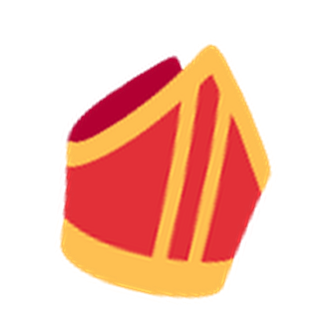
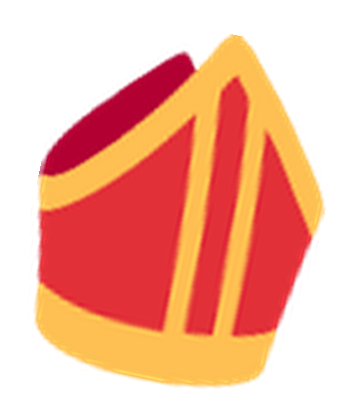
Seat hats on the head using each hat's opaque bounds
Claude-Session: https://claude.ai/code/session_01RvUTQRLFqTPWzf27vUXUyM

diff --git a/projects/pogo-planet-hats-reel/compositions/index.html b/projects/pogo-planet-hats-reel/compositions/index.html
@@ -54,7 +54,7 @@
             <svg class="hills" viewBox="0 0 1080 900" preserveAspectRatio="none"><polygon fill="#58735e" points="0,900 0,560 140,380 260,560 400,300 560,560 700,420 860,560 980,340 1080,480 1080,900" /><polygon fill="#2f6b4a" points="0,900 0,700 90,560 180,700 330,520 470,720 640,600 780,720 900,560 1080,740 1080,900" /></svg>
             <svg class="rays" id="ray1" viewBox="-1000 -1000 2000 2000"><polygon points="0,0 1398,-73 1398,73" /><polygon points="0,0 1339,409 1289,547" /><polygon points="0,0 1118,843 1024,955" /><polygon points="0,0 762,1174 636,1247" /><polygon points="0,0 315,1364 171,1390" /><polygon points="0,0 -171,1390 -315,1364" /><polygon points="0,0 -636,1247 -762,1174" /><polygon points="0,0 -1024,955 -1118,843" /><polygon points="0,0 -1289,547 -1339,409" /><polygon points="0,0 -1398,73 -1398,-73" /><polygon points="0,0 -1339,-409 -1289,-547" /><polygon points="0,0 -1118,-843 -1024,-955" /><polygon points="0,0 -762,-1174 -636,-1247" /><polygon points="0,0 -315,-1364 -171,-1390" /><polygon points="0,0 171,-1390 315,-1364" /><polygon points="0,0 636,-1247 762,-1174" /><polygon points="0,0 1024,-955 1118,-843" /><polygon points="0,0 1289,-547 1339,-409" /></svg>
             <div class="ground"></div>
-            <div class="char" id="c1" style="left:160px;top:640px;transform:scale(2.2)"><div class="bob" id="c1b"><img class="stick" src="img/stick.png" /><img class="body" src="img/body.png" /><img class="hat" id="c1h0" src="img/hatfit/h00.png" style="left:163.0px;top:-26.0px;width:112.0px;height:112.0px" /><img class="hat" id="c1h1" src="img/hatfit/h01.png" style="left:163.0px;top:-26.0px;width:112.0px;height:112.0px" /><img class="hat" id="c1h2" src="img/hatfit/h02.png" style="left:163.0px;top:-26.0px;width:112.0px;height:112.0px" /><img class="hat" id="c1h3" src="img/hatfit/h03.png" style="left:163.0px;top:-26.0px;width:112.0px;height:112.0px" /><img class="hat" id="c1h4" src="img/hatfit/h04.png" style="left:163.0px;top:-26.0px;width:112.0px;height:112.0px" /><img class="hat" id="c1h5" src="img/hatfit/h05.png" style="left:163.0px;top:-26.0px;width:112.0px;height:112.0px" /><img class="hat" id="c1h6" src="img/hatfit/h06.png" style="left:163.0px;top:-26.0px;width:112.0px;height:112.0px" /><img class="hat" id="c1h7" src="img/hatfit/h08.png" style="left:163.0px;top:-26.0px;width:112.0px;height:112.0px" /><img class="hat" id="c1h8" src="img/hatfit/h09.png" style="left:160.0px;top:-9.0px;width:118.0px;height:127.0px" /><img class="hat" id="c1h9" src="img/hatfit/h10.png" style="left:161.0px;top:2.0px;width:116.0px;height:116.0px" /><img class="hat" id="c1h10" src="img/hatfit/h11.png" style="left:161.0px;top:4.7px;width:116.0px;height:113.3px" /><img class="hat" id="c1h11" src="img/hatfit/h12.png" style="left:163.0px;top:-26.0px;width:112.0px;height:112.0px" /><img class="hat" id="c1h12" src="img/hatfit/h13.png" style="left:163.0px;top:-26.0px;width:112.0px;height:112.0px" /><img class="hat" id="c1h13" src="img/hatfit/h14.png" style="left:163.0px;top:-26.0px;width:112.0px;height:112.0px" /><img class="hat" id="c1h14" src="img/hatfit/h15.png" style="left:163.0px;top:-26.0px;width:112.0px;height:112.0px" /><img class="hat" id="c1h15" src="img/hatfit/h16.png" style="left:161.0px;top:2.0px;width:116.0px;height:116.0px" /><img class="hat" id="c1h16" src="img/hatfit/h17.png" style="left:161.0px;top:2.0px;width:116.0px;height:116.0px" /><img class="hat" id="c1h17" src="img/hatfit/h18.png" style="left:161.0px;top:2.0px;width:116.0px;height:116.0px" /><img class="hat" id="c1h18" src="img/hatfit/h19.png" style="left:161.0px;top:2.0px;width:116.0px;height:116.0px" /><img class="hat" id="c1h19" src="img/hatfit/h20.png" style="left:161.0px;top:2.0px;width:116.0px;height:116.0px" /><img class="hat" id="c1h20" src="img/hatfit/h21.png" style="left:161.0px;top:2.0px;width:116.0px;height:116.0px" /><img class="hat" id="c1h21" src="img/hatfit/h22.png" style="left:161.0px;top:2.0px;width:116.0px;height:116.0px" /><img class="hat" id="c1h22" src="img/hatfit/h23.png" style="left:161.0px;top:2.0px;width:116.0px;height:116.0px" /><img class="hat" id="c1h23" src="img/hatfit/h24.png" style="left:161.0px;top:2.0px;width:116.0px;height:116.0px" /><img class="hat" id="c1h24" src="img/hatfit/h25.png" style="left:161.0px;top:2.0px;width:116.0px;height:116.0px" /><img class="hat" id="c1h25" src="img/hatfit/h26.png" style="left:161.0px;top:2.0px;width:116.0px;height:116.0px" /><img class="hat" id="c1h26" src="img/hatfit/h27.png" style="left:161.0px;top:2.0px;width:116.0px;height:116.0px" /><img class="hat" id="c1h27" src="img/hatfit/h28.png" style="left:161.0px;top:2.0px;width:116.0px;height:116.0px" /><img class="hat" id="c1h28" src="img/hatfit/h29.png" style="left:161.0px;top:2.0px;width:116.0px;height:116.0px" /><img class="hat" id="c1h29" src="img/hatfit/h00.png" style="left:163.0px;top:-26.0px;width:112.0px;height:112.0px" /><img class="hat" id="c1h30" src="img/hatfit/h01.png" style="left:163.0px;top:-26.0px;width:112.0px;height:112.0px" /><img class="hat" id="c1h31" src="img/hatfit/h03.png" style="left:163.0px;top:-26.0px;width:112.0px;height:112.0px" /></div></div>
+            <div class="char" id="c1" style="left:160px;top:640px;transform:scale(2.2)"><div class="bob" id="c1b"><img class="stick" src="img/stick.png" /><img class="body" src="img/body.png" /><img class="hat" id="c1h0" src="img/hatfit/h00.png" style="left:165.3px;top:-35.0px;width:115.3px;height:118.0px" /><img class="hat" id="c1h1" src="img/hatfit/h01.png" style="left:168.7px;top:-3.7px;width:108.7px;height:86.7px" /><img class="hat" id="c1h2" src="img/hatfit/h02.png" style="left:168.0px;top:-12.7px;width:110.0px;height:95.7px" /><img class="hat" id="c1h3" src="img/hatfit/h03.png" style="left:166.7px;top:-23.7px;width:112.7px;height:106.7px" /><img class="hat" id="c1h4" src="img/hatfit/h04.png" style="left:167.7px;top:-15.7px;width:110.7px;height:98.7px" /><img class="hat" id="c1h5" src="img/hatfit/h05.png" style="left:167.0px;top:-19.7px;width:112.0px;height:102.7px" /><img class="hat" id="c1h6" src="img/hatfit/h06.png" style="left:163.3px;top:-55.0px;width:119.3px;height:138.0px" /><img class="hat" id="c1h7" src="img/hatfit/h08.png" style="left:169.0px;top:-0.7px;width:108.0px;height:83.7px" /><img class="hat" id="c1h8" src="img/hatfit/h09.png" style="left:159.3px;top:9.5px;width:123.3px;height:127.0px" /><img class="hat" id="c1h9" src="img/hatfit/h10.png" style="left:159.7px;top:11.0px;width:122.7px;height:124.0px" /><img class="hat" id="c1h10" src="img/hatfit/h11.png" style="left:158.3px;top:2.0px;width:125.3px;height:142.0px" /><img class="hat" id="c1h11" src="img/hatfit/h12.png" style="left:166.0px;top:-31.0px;width:114.0px;height:114.0px" /><img class="hat" id="c1h12" src="img/hatfit/h13.png" style="left:166.3px;top:-27.0px;width:113.3px;height:110.0px" /><img class="hat" id="c1h13" src="img/hatfit/h14.png" style="left:167.0px;top:-19.7px;width:112.0px;height:102.7px" /><img class="hat" id="c1h14" src="img/hatfit/h15.png" style="left:169.0px;top:-1.7px;width:108.0px;height:84.7px" /><img class="hat" id="c1h15" src="img/hatfit/h16.png" style="left:160.3px;top:15.2px;width:121.3px;height:115.7px" /><img class="hat" id="c1h16" src="img/hatfit/h17.png" style="left:160.0px;top:12.5px;width:122.0px;height:121.0px" /><img class="hat" id="c1h17" src="img/hatfit/h18.png" style="left:161.0px;top:20.7px;width:120.0px;height:104.7px" /><img class="hat" id="c1h18" src="img/hatfit/h19.png" style="left:161.0px;top:19.7px;width:120.0px;height:106.7px" /><img class="hat" id="c1h19" src="img/hatfit/h20.png" style="left:159.3px;top:9.5px;width:123.3px;height:127.0px" /><img class="hat" id="c1h20" src="img/hatfit/h21.png" style="left:160.3px;top:14.2px;width:121.3px;height:117.7px" /><img class="hat" id="c1h21" src="img/hatfit/h22.png" style="left:159.7px;top:11.0px;width:122.7px;height:124.0px" /><img class="hat" id="c1h22" src="img/hatfit/h23.png" style="left:159.0px;top:5.0px;width:124.0px;height:136.0px" /><img class="hat" id="c1h23" src="img/hatfit/h24.png" style="left:159.0px;top:6.5px;width:124.0px;height:133.0px" /><img class="hat" id="c1h24" src="img/hatfit/h25.png" style="left:160.7px;top:16.7px;width:120.7px;height:112.7px" /><img class="hat" id="c1h25" src="img/hatfit/h26.png" style="left:160.7px;top:17.2px;width:120.7px;height:111.7px" /><img class="hat" id="c1h26" src="img/hatfit/h27.png" style="left:159.3px;top:7.5px;width:123.3px;height:131.0px" /><img class="hat" id="c1h27" src="img/hatfit/h28.png" style="left:159.3px;top:9.5px;width:123.3px;height:127.0px" /><img class="hat" id="c1h28" src="img/hatfit/h29.png" style="left:159.7px;top:11.0px;width:122.7px;height:124.0px" /><img class="hat" id="c1h29" src="img/hatfit/h00.png" style="left:165.3px;top:-35.0px;width:115.3px;height:118.0px" /><img class="hat" id="c1h30" src="img/hatfit/h01.png" style="left:168.7px;top:-3.7px;width:108.7px;height:86.7px" /><img class="hat" id="c1h31" src="img/hatfit/h03.png" style="left:166.7px;top:-23.7px;width:112.7px;height:106.7px" /></div></div>
             <div id="q">?</div>
           </div>
           <div class="head" id="h1" style="top:240px"><span class="w">WHICH HAT</span><br><span class="y">ARE YOU?</span></div>
@@ -70,9 +70,9 @@
         <div id="sC" class="clip scene sky" data-start="11.309" data-duration="2.148" data-track-index="1">
           <svg class="hills" viewBox="0 0 1080 900" preserveAspectRatio="none"><polygon fill="#58735e" points="0,900 0,560 140,380 260,560 400,300 560,560 700,420 860,560 980,340 1080,480 1080,900" /><polygon fill="#2f6b4a" points="0,900 0,700 90,560 180,700 330,520 470,720 640,600 780,720 900,560 1080,740 1080,900" /></svg>
           <div class="ground"></div>
-          <div class="char" id="c2" style="left:-60px;top:900px;transform:scale(1.6)"><div class="bob" id="c2b"><img class="stick" src="img/stick.png" /><img class="body" src="img/body.png" /><img class="hat" id="c2h0" src="img/hatfit/h04.png" style="left:163.0px;top:-26.0px;width:112.0px;height:112.0px" /></div></div>
-          <div class="char" id="c3" style="left:270px;top:870px;transform:scale(1.6)"><div class="bob" id="c3b"><img class="stick" src="img/stick.png" /><img class="body" src="img/body.png" /><img class="hat" id="c3h0" src="img/hatfit/h03.png" style="left:163.0px;top:-26.0px;width:112.0px;height:112.0px" /></div></div>
-          <div class="char" id="c4" style="left:600px;top:900px;transform:scale(1.6)"><div class="bob" id="c4b"><img class="stick" src="img/stick.png" /><img class="body" src="img/body.png" /><img class="hat" id="c4h0" src="img/hatfit/h16.png" style="left:161.0px;top:2.0px;width:116.0px;height:116.0px" /></div></div>
+          <div class="char" id="c2" style="left:-60px;top:900px;transform:scale(1.6)"><div class="bob" id="c2b"><img class="stick" src="img/stick.png" /><img class="body" src="img/body.png" /><img class="hat" id="c2h0" src="img/hatfit/h04.png" style="left:167.7px;top:-15.7px;width:110.7px;height:98.7px" /></div></div>
+          <div class="char" id="c3" style="left:270px;top:870px;transform:scale(1.6)"><div class="bob" id="c3b"><img class="stick" src="img/stick.png" /><img class="body" src="img/body.png" /><img class="hat" id="c3h0" src="img/hatfit/h03.png" style="left:166.7px;top:-23.7px;width:112.7px;height:106.7px" /></div></div>
+          <div class="char" id="c4" style="left:600px;top:900px;transform:scale(1.6)"><div class="bob" id="c4b"><img class="stick" src="img/stick.png" /><img class="body" src="img/body.png" /><img class="hat" id="c4h0" src="img/hatfit/h16.png" style="left:160.3px;top:15.2px;width:121.3px;height:115.7px" /></div></div>
           <div class="head" id="h4" style="top:250px"><span class="w">FIND YOUR</span><br><span class="y">STYLE.</span></div>
           <div class="head" id="h4b" style="top:560px"><span class="bar teal">190+ HATS TO UNLOCK</span></div>
         </div>

diff --git a/projects/pogo-planet-hats-reel/compositions/fit_hats.py b/projects/pogo-planet-hats-reel/compositions/fit_hats.py
@@ -1,0 +1,35 @@
+# Crops each hat to its opaque bounds and computes its placement on the head (body.png coords).
+import json, os, sys
+from PIL import Image
+HEAD_CX, HEAD_CY, HEAD_D = 217, 75, 62
+MASK = {9, 10, 11} | set(range(16, 30))
+os.makedirs("img/hatfit", exist_ok=True)
+info = {}
+for i in range(30):
+    h = Image.open(f"img/hats/h{i:02d}.png").convert("RGBA")
+    h = h.crop(h.getchannel("A").point(lambda a: 255 if a > 20 else 0).getbbox())
+    mask = i in MASK
+    w = 108 if mask else 96                       # opaque width in body px
+    S = 3                                        # bake at 3x for sharpness
+    hs = h.resize((w * S, round(h.height * w / h.width) * S), Image.LANCZOS)
+    rot = -8 if mask else -12
+    hs = hs.rotate(rot, expand=True, resample=Image.BICUBIC)
+    hs.save(f"img/hatfit/h{i:02d}.png")
+    W, H = hs.width / S, hs.height / S
+    if mask:   # centred on the head
+        left, top = HEAD_CX - W / 2 + 4, HEAD_CY - H / 2 - 2
+    else:      # opaque bottom sits just below head centre, covering the crown of the head
+        left, top = HEAD_CX - W / 2 + 6, HEAD_CY + 8 - H
+    info[f"img/hats/h{i:02d}.png"] = (round(left, 1), round(top, 1), round(W, 1), round(H, 1))
+json.dump(info, open("hatfit.json", "w"))
+if len(sys.argv) > 1:   # preview sheet
+    b = Image.open("img/body.png").convert("RGBA"); s = Image.open("img/stick.png").convert("RGBA")
+    picks = [0, 3, 4, 5, 8, 13, 14, 11, 16, 29, 18, 26]
+    out = Image.new("RGBA", (len(picks) * 150, 170), (150, 170, 120, 255))
+    for k, i in enumerate(picks):
+        cv = Image.new("RGBA", (330, 420), (0, 0, 0, 0)); cv.alpha_composite(s, (10, 89)); cv.alpha_composite(b, (0, 40))
+        l, t, W, H = info[f"img/hats/h{i:02d}.png"]
+        hi = Image.open(f"img/hatfit/h{i:02d}.png").resize((round(W), round(H)), Image.LANCZOS)
+        cv.alpha_composite(hi, (round(l), round(t) + 40))
+        out.alpha_composite(cv.crop((130, 0, 310, 200)).resize((150, 167)), (k * 150, 0))
+    out.save(sys.argv[1])
